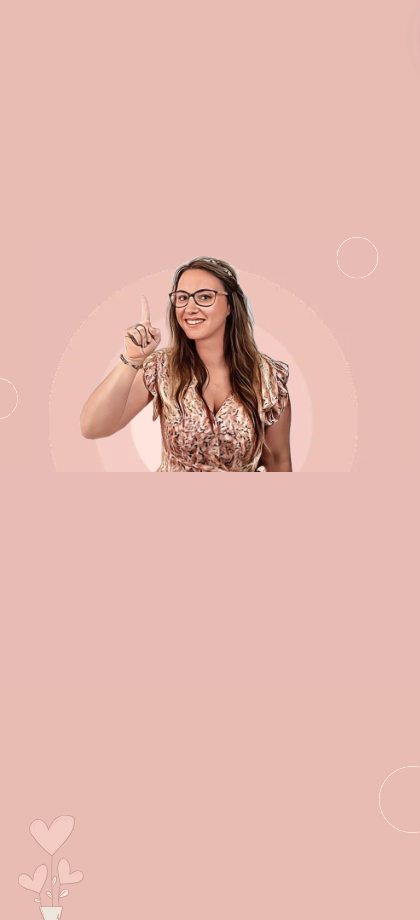
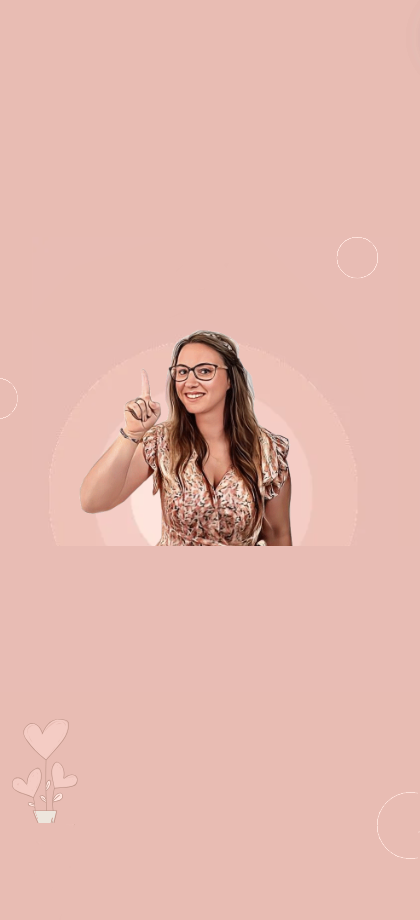
modification accueil mobile

Changed region(s): [[0.1857, 0.2739, 0.7119, 0.6087], [0.0929, 0.9435, 0.1548, 1.0], [0.0929, 0.8522, 0.1548, 0.913]]

diff --git a/myportfolio/src/components/competences.jsx b/myportfolio/src/components/competences.jsx
@@ -103,7 +103,7 @@ const Competences = () => {
                     </div>
                 </div>
                 <div className="col-span-1 mx-4 md:mx-auto md:col-span-4 md:col-start-2 bg-colorRoseNav rounded-md mt-3 md:mt-8 custom-shadow">
-                    <h5 className="text-center tracking-widest text-3xl text-colorMarronFonce shadow-lg shadow-colorRoseBackground p-2">MES SOFTSKILLS</h5>
+                    <h5 className="text-center tracking-widest text-3xl text-colorMarronFonce shadow-md shadow-colorRoseBackground p-2">MES SOFTSKILLS</h5>
                     <div className="p-2">
                         <h6 className="text-center text-colorMarronFonce text-lg font-bold">** Esprit d’équipe **</h6>
                         <div className="flex justify-around items-center mt-2">
@@ -133,7 +133,7 @@ const Competences = () => {
                     </div>
                 </div>
                 <div className="col-span-1 mx-4 md:mx-auto md:col-span-4 bg-colorRoseNav rounded-md mt-3 md:mt-8 custom-shadow">
-                    <h5 className="text-center tracking-widest text-3xl text-colorMarronFonce shadow-lg shadow-colorRoseBackground p-2">MES HARDSKILLS</h5>
+                    <h5 className="text-center tracking-widest text-3xl text-colorMarronFonce shadow-md shadow-colorRoseBackground p-2">MES HARDSKILLS</h5>
                     <div className="p-2 mt-3">
                         <h6 className="text-center text-colorMarronFonce text-lg font-bold">** Frameworks et Librairies **</h6>
                         <div className="flex justify-around items-center mt-4">

diff --git a/myportfolio/src/components/icone.jsx b/myportfolio/src/components/icone.jsx
@@ -4,15 +4,15 @@ import { FaLinkedin } from "react-icons/fa";
 
 const Icone = () => {
     return (
-        <div className='flex space-x-12 mt-8 md:mt-24 md:ml-48'>
+        <div className='flex justify-center items-center space-x-12 mt-4 md:mt-24 md:ml-48'>
             <div>
-                <a href="https://www.linkedin.com/in/jessica-synowski-43a962a3/" target='_blank'><FaLinkedin className='size-16 text-white'/></a>
+                <a href="https://www.linkedin.com/in/jessica-synowski-43a962a3/" target='_blank'><FaLinkedin className='size-8 md:size-16 text-white'/></a>
             </div>
                 <div>
-                <a href="https://github.com/synowski-jessica/" target='_blank'><FaGithub className='size-16 text-white'/></a>
+                <a href="https://github.com/synowski-jessica/" target='_blank'><FaGithub className='size-8 md:size-16 text-white'/></a>
             </div>
             <div>
-                <a href="https://synowski-jessica.github.io/portfolio/cvJessicaSynowskiV3.pdf" target='_blank' download className='text-white text-6xl'><h4>CV</h4></a>
+                <a href="https://synowski-jessica.github.io/portfolio/cvJessicaSynowskiV3.pdf" target='_blank' download className='text-white text-3xl md:text-6xl'><h4>CV</h4></a>
             </div>
         </div>
         

diff --git a/myportfolio/src/components/realisation.jsx b/myportfolio/src/components/realisation.jsx
@@ -126,7 +126,7 @@ const Realisation =()=>{
                 </div>
                 <div className="mt-2">
                     <h6 className="text-sm text-colorMarronFonce">Objectif:</h6>
-                    <p className="text-colorMarronFonce">Réalisation de mon portfolio pour partager mes projets collectifs et personnels. J’ai utilisé Caneva pour faire la maquette grâce aux illustrations intégrées</p>
+                    <p className="text-colorMarronFonce">Réalisation de mon portfolio pour partager mes projets collectifs et personnels. J’ai utilisé Canva pour faire la maquette grâce aux illustrations intégrées</p>
                 </div>
                 <div className="mt-2 flex items-center justify-center space-x-10">
                     <h6 className="text-sm text-colorMarronFonce italic hover:border border-colorMarronFonce p-2 rounded-full"><a href="https://github.com/synowski-jessica/portfolio" target='_blank'>Repo Github</a></h6>

diff --git a/myportfolio/src/components/developpeuseFullstack.jsx b/myportfolio/src/components/developpeuseFullstack.jsx
@@ -3,7 +3,7 @@ import CoeurLight from '../assets/coeurLight.png'
 const DeveloppeuseFullstack = () => {
     return (
         <div className='mt-16'>
-                <h1 className="text-white  -mt-6 text-4xl ml-5 md:text-8xl tracking-widest">DEVELOPPEUSE</h1>
+                <h1 className="text-white  -mt-12 text-4xl ml-5 md:text-8xl tracking-widest">DEVELOPPEUSE</h1>
                 <div className='flex space-x-4  ml-12 md:space-x-16 md:ml-10'>
                     <h1 className="text-white text-4xl  md:text-8xl tracking-widest">FULL</h1>
                     <h1 className="text-white  text-4xl  md:text-8xl tracking-widest">STACK</h1>
